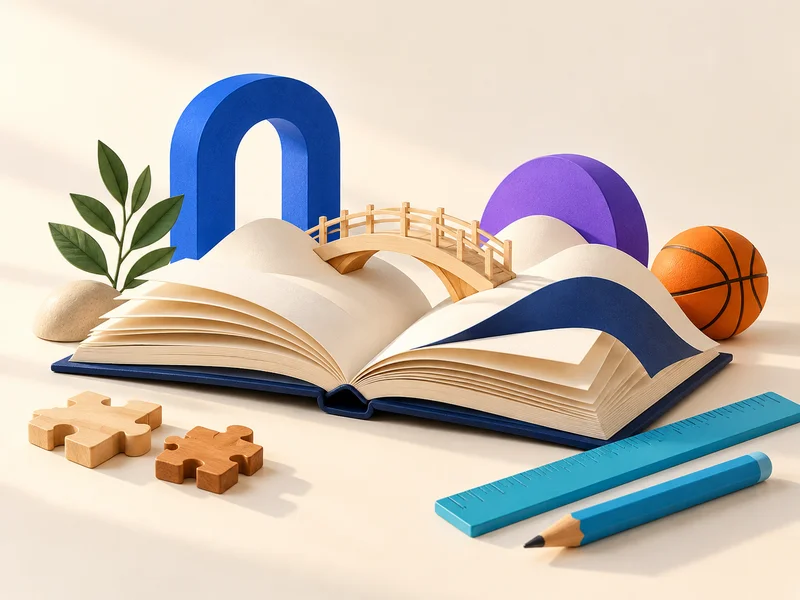
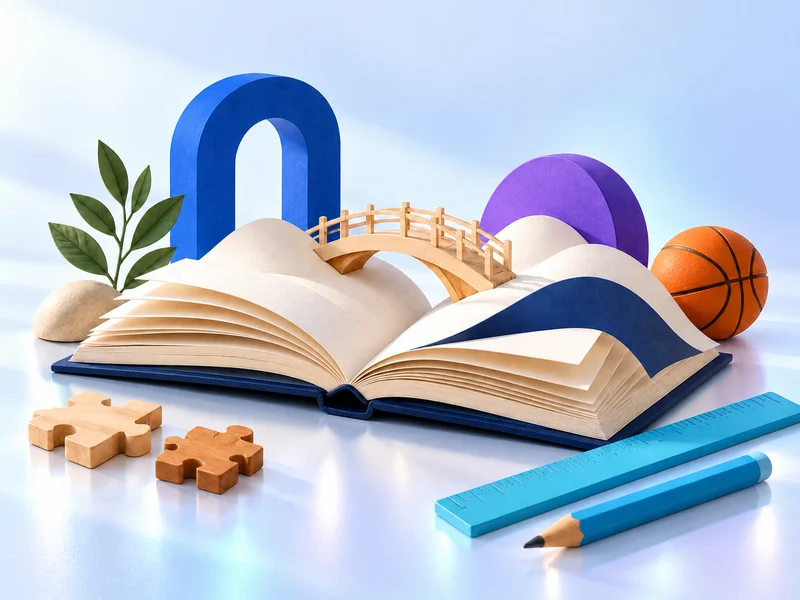
Unify paper artwork with cool glass-inspired backgrounds

diff --git a/app/globals.css b/app/globals.css
@@ -1,13 +1,17 @@
-/* Shared identity: glass controls and warm opaque editorial surfaces. */
+/* Shared identity: cool glass-derived backgrounds unite paper art and glass controls. */
 :root {
   color-scheme: light;
   --radius: 26px;
   --shadow: inset 0 1px 1px #fff, 0 10px 28px #344d6f0d, 0 3px 0 #dce6f180;
   --glass: linear-gradient(145deg, #fffffff5, #f8fbfff2 60%, #eaf1ffdd);
   --control-radius: 14px;
-  --paper: #fffdf9;
-  --paper-line: #e7e2d9;
-  --paper-shadow: 0 10px 30px #493d2a0a;
+  --content-surface: #f7f9ff;
+  --content-line: #dce5f2;
+  --content-shadow: 0 10px 30px #344d6f0d;
+  --art-backdrop:
+    radial-gradient(ellipse at 18% 16%, #dcf5ff 0%, transparent 58%),
+    radial-gradient(ellipse at 88% 75%, #e5e1fa 0%, transparent 62%),
+    linear-gradient(135deg, #f2f7ff, #e8effc);
 }
 * {
   box-sizing: border-box;
@@ -474,7 +478,7 @@ main {
   padding: 40px;
   border: 1px solid #dfe7f0;
   border-radius: 32px;
-  background: #edf3fb;
+  background: var(--art-backdrop);
   box-shadow: 0 12px 35px #344d6f08;
 }
 .knowledge-panel .eyebrow {
@@ -490,10 +494,10 @@ main {
   display: block;
   position: relative;
   padding: 26px 22px 20px;
-  border: 1px solid var(--paper-line);
+  border: 1px solid var(--content-line);
   border-radius: 24px;
-  background: var(--paper);
-  box-shadow: var(--paper-shadow);
+  background: var(--content-surface);
+  box-shadow: var(--content-shadow);
   color: var(--text);
   transition: transform 0.25s;
 }
@@ -519,9 +523,13 @@ main {
   height: 68px;
   border: 1px solid white;
   border-radius: 19px;
-  background: color-mix(in srgb, var(--tone, var(--primary)) 8%, var(--paper));
+  background: color-mix(
+    in srgb,
+    var(--tone, var(--primary)) 8%,
+    var(--content-surface)
+  );
   box-shadow: 0 4px 0
-    color-mix(in srgb, var(--tone, var(--primary)) 16%, #e7e2d9);
+    color-mix(in srgb, var(--tone, var(--primary)) 16%, #dce5f2);
   color: var(--tone);
   margin-bottom: 27px;
   transform: rotate(-5deg);
@@ -555,11 +563,11 @@ main {
   gap: 24px;
 }
 .card {
-  background: var(--paper);
-  border: 1px solid var(--paper-line);
+  background: var(--content-surface);
+  border: 1px solid var(--content-line);
   border-radius: var(--radius);
   padding: 26px;
-  box-shadow: var(--paper-shadow);
+  box-shadow: var(--content-shadow);
 }
 .card h3 {
   margin: 0 0 12px;
@@ -657,10 +665,10 @@ main {
   flex-direction: column;
   min-width: 0;
   border-radius: 26px;
-  background: var(--paper);
-  border: 1px solid var(--paper-line);
+  background: var(--content-surface);
+  border: 1px solid var(--content-line);
   overflow: hidden;
-  box-shadow: var(--paper-shadow);
+  box-shadow: var(--content-shadow);
   transition:
     transform 0.2s,
     box-shadow 0.2s;
@@ -763,7 +771,7 @@ main {
   --gc: var(--g7);
   color: var(--text);
   transition: transform 0.2s;
-  background: var(--paper);
+  background: var(--content-surface);
   border: 1px solid color-mix(in srgb, var(--gc) 15%, white);
 }
 .grade-tile:hover {
@@ -789,6 +797,8 @@ main {
   line-height: 1;
 }
 .grade-art {
+  background: var(--art-backdrop);
+  border-radius: 20px;
   height: 200px !important;
   object-fit: contain;
   margin-bottom: 16px;
@@ -821,10 +831,10 @@ main {
   gap: 40px;
   align-items: center;
   padding: 45px 55px;
-  background: var(--paper);
+  background: var(--content-surface);
   border-radius: 32px;
-  border: 1px solid var(--paper-line);
-  box-shadow: var(--paper-shadow);
+  border: 1px solid var(--content-line);
+  box-shadow: var(--content-shadow);
 }
 .participation-banner h2 {
   font-size: 40px;
@@ -1127,10 +1137,14 @@ input[type="radio"] {
   width: 54px;
   height: 54px;
   border-radius: 16px;
-  background: color-mix(in srgb, var(--tone, var(--primary)) 8%, var(--paper));
+  background: color-mix(
+    in srgb,
+    var(--tone, var(--primary)) 8%,
+    var(--content-surface)
+  );
   color: var(--ic, var(--primary));
   box-shadow: 0 4px 0
-    color-mix(in srgb, var(--tone, var(--primary)) 16%, #e7e2d9);
+    color-mix(in srgb, var(--tone, var(--primary)) 16%, #dce5f2);
   margin-bottom: 19px;
 }
 .mobile-break {

diff --git a/app/play/play.css b/app/play/play.css
@@ -1,6 +1,6 @@
 .play-space {
   --play-line: #dce5f1;
-  --play-paper: var(--paper, #fffdf9);
+  --play-surface: var(--content-surface, #f7f9ff);
   background:
     radial-gradient(ellipse at 0 0, #e6e9ff80, transparent 34%),
     radial-gradient(ellipse at 100% 18%, #d8f7ff70, transparent 30%);
@@ -129,7 +129,7 @@
 .play-progress-link {
   border: 1px solid #fff;
   border-radius: 24px;
-  background: var(--play-paper);
+  background: var(--play-surface);
   box-shadow: var(--shadow);
   padding: 24px;
   display: flex;
@@ -285,7 +285,7 @@
   display: flex;
   flex-direction: column;
   color: #10182f;
-  background: var(--play-paper);
+  background: var(--play-surface);
   border: 1px solid #fff;
   outline: 1px solid #dce5f199;
   border-radius: 27px;
@@ -409,7 +409,7 @@
   border: 1px solid #fff;
   border-radius: 26px;
   padding: 30px;
-  background: var(--play-paper);
+  background: var(--play-surface);
   box-shadow: var(--shadow);
 }
 .play-community-callout {
@@ -478,7 +478,7 @@
   border: 1px solid #fff;
   outline: 1px solid #dce5f1;
   border-radius: 28px;
-  background: var(--play-paper);
+  background: var(--play-surface);
   box-shadow: 0 16px 48px #3c507e0b;
 }
 .play-workbench h2 {
@@ -1185,7 +1185,7 @@
   display: grid;
   grid-template-columns: repeat(3, 1fr);
   gap: 20px;
-  background: var(--play-paper);
+  background: var(--play-surface);
   border: 1px solid #fff;
   border-radius: 26px;
   box-shadow: var(--shadow);
@@ -1313,7 +1313,7 @@
 }
 .play-ideas article {
   border: 1px solid #fff;
-  background: var(--play-paper);
+  background: var(--play-surface);
   border-radius: 21px;
   padding: 25px;
   box-shadow: var(--shadow);
@@ -1888,11 +1888,11 @@
   min-height: 44px;
 }
 
-/* Editorial imagery balances the glass navigation and controls. */
+/* Paper subjects share the glass artwork’s cool studio background. */
 .play-hero-art {
-  background: #f7f2e8;
+  background: var(--art-backdrop);
   border: 0;
-  box-shadow: 0 20px 45px #4e443514;
+  box-shadow: 0 20px 45px #4b6fb51a;
   overflow: hidden;
   border-radius: 36px 12px 36px 12px;
 }
@@ -1901,25 +1901,25 @@
   border-radius: inherit;
 }
 .play-card {
-  background: #fffdf9;
+  background: var(--content-surface);
   backdrop-filter: none;
   border: 1px solid #e5e8ed;
   box-shadow: 0 8px 22px #24354a0a;
 }
 .play-card-art {
-  background: #f3f0e9;
+  background: var(--art-backdrop);
 }
 .play-card-copy {
-  background: #fffdf9;
+  background: var(--content-surface);
 }
 .play-story {
-  background: #fffdf8;
+  background: var(--content-surface);
   border-radius: 24px;
   padding: 22px;
 }
 .play-story-picture img {
   border-radius: 19px;
-  box-shadow: 0 8px 25px #40342612;
+  box-shadow: 0 8px 25px #3b517812;
 }
 .play-story-clue,
 .play-evidence {

diff --git a/app/articles/articles.css b/app/articles/articles.css
@@ -38,9 +38,9 @@
   direction: ltr;
   border-radius: 28px;
   overflow: hidden;
-  background: var(--paper);
-  border: 1px solid var(--paper-line);
-  box-shadow: var(--paper-shadow);
+  background: var(--content-surface);
+  border: 1px solid var(--content-line);
+  box-shadow: var(--content-shadow);
   color: var(--text);
 }
 .featured-image {
@@ -267,10 +267,10 @@
   width: 100%;
   max-width: 780px;
   padding: clamp(18px, 3vw, 42px);
-  background: var(--paper);
-  border: 1px solid var(--paper-line);
+  background: var(--content-surface);
+  border: 1px solid var(--content-line);
   border-radius: 26px;
-  box-shadow: var(--paper-shadow);
+  box-shadow: var(--content-shadow);
   overflow-wrap: anywhere;
 }
 .reader-toolbar {
